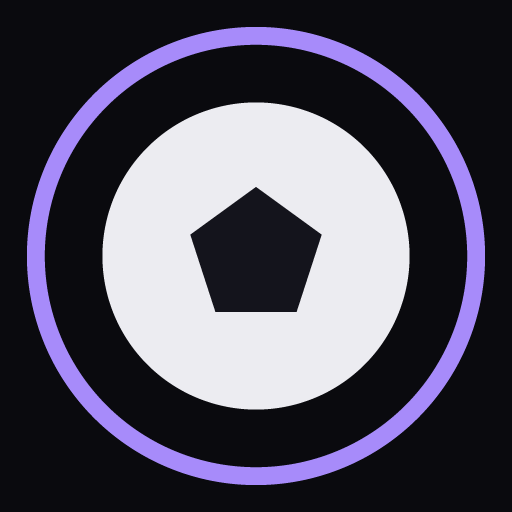
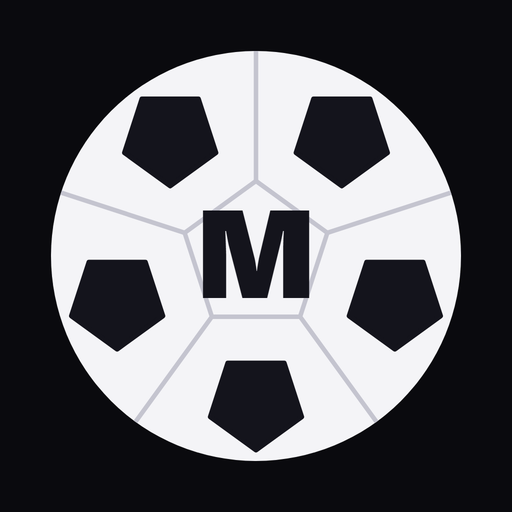
Vista anche sul referto; nuova icona: pallone con la M
- VistaCampo: pulsante e interruttori condivisi da Modulo e referto
  (stessa scelta in meta 'vistaCampo')
- Icone PWA, apple-touch e favicon rifatte: pallone con la M, senza cerchio
  viola; sorgente in public/icon-sorgente.svg
- Service worker: cache v3 per scaricare le icone nuove

Claude-Session: https://claude.ai/code/session_01DLKBbnYJc95bZgJVSMo6jV

diff --git a/mister-app/src/pages/ModuloPage.jsx b/mister-app/src/pages/ModuloPage.jsx
@@ -22,7 +22,8 @@ import IncaricoPicker from '../components/IncaricoPicker'
 import { IconBall } from '../components/icons'
 import Scelta from '../components/Scelta'
 import Modal from '../components/Modal'
-import { VOCI_VISTA, vistaCompleta } from '../lib/vistaCampo'
+import { vistaCompleta } from '../lib/vistaCampo'
+import VistaCampo from '../components/VistaCampo'
 
 const VUOTO = (formato) => Array(formato).fill(null)
 const OVERRIDE_VUOTO = () => ({ possesso: {}, nonPossesso: {} })
@@ -71,7 +72,6 @@ export default function ModuloPage() {
   const matches = useLiveQuery(() => db.matches.toArray(), [])
   const opponents = useLiveQuery(() => db.opponents.toArray(), [])
   const vistaRiga = useLiveQuery(() => db.meta.get('vistaCampo').then((v) => v ?? null), [])
-  const [finestraVista, setFinestraVista] = useState(false)
 
   useEffect(() => {
     db.meta.get('modulo').then((m) => {
@@ -442,9 +442,6 @@ export default function ModuloPage() {
 
   const impInfo = IMPOSTAZIONI.find((i) => i.value === impostazione)
   const vista = vistaCompleta(vistaRiga?.value)
-  const nascosti = Object.values(vista).filter((v) => !v).length
-  const alternaVista = (key) =>
-    db.meta.put({ key: 'vistaCampo', value: { ...vista, [key]: !vista[key] } })
   const coerenzaIcona = coerenza.livello === 'ok' ? '🟢' : coerenza.livello === 'rotto' ? '🔴' : '🟡'
 
   // Una voce della finestra Tattica: le opzioni come pulsanti, sotto la
@@ -608,31 +605,6 @@ export default function ModuloPage() {
             </Modal>
           )}
 
-          {finestraVista && (
-            <Modal titolo="Indicatori sul campo" onClose={() => setFinestraVista(false)}>
-              {VOCI_VISTA.map((v) => (
-                <div className="switch-row" key={v.key}>
-                  <div>
-                    <div className="label">{v.label}</div>
-                    <div className="muted small">{v.desc}</div>
-                  </div>
-                  <button
-                    type="button"
-                    className={`toggle ${vista[v.key] ? 'on' : ''}`}
-                    role="switch"
-                    aria-checked={vista[v.key]}
-                    aria-label={v.label}
-                    onClick={() => alternaVista(v.key)}
-                  />
-                </div>
-              ))}
-              <p className="muted small" style={{ margin: '8px 0 12px' }}>
-                Vale per il campo del Modulo. L'immagine da condividere non cambia.
-              </p>
-              <button className="btn btn-primary btn-block" onClick={() => setFinestraVista(false)}>Fatto</button>
-            </Modal>
-          )}
-
           {/* Switch di fase: lente esclusiva sul campo, mai le due mappe insieme */}
           <div className="schede" role="tablist">
             {[
@@ -654,14 +626,7 @@ export default function ModuloPage() {
           </div>
 
           <div className="pitch-wrap" style={{ position: 'relative' }}>
-            <button
-              type="button"
-              className="btn btn-sm pitch-vista"
-              aria-label="Indicatori sul campo"
-              onClick={() => setFinestraVista(true)}
-            >
-              👁 Vista{nascosti > 0 ? ` · ${nascosti} off` : ''}
-            </button>
+            <VistaCampo vista={vista} />
             <PitchView
               mostra={vista}
               modulo={modulo}

diff --git a/mister-app/src/pages/PartitaRefertoPage.jsx b/mister-app/src/pages/PartitaRefertoPage.jsx
@@ -16,6 +16,8 @@ import PitchView from '../components/PitchView'
 import IncaricoPicker from '../components/IncaricoPicker'
 import Scelta from '../components/Scelta'
 import Modal from '../components/Modal'
+import VistaCampo from '../components/VistaCampo'
+import { vistaCompleta } from '../lib/vistaCampo'
 
 const VUOTO = (n) => Array(n).fill(null)
 
@@ -61,6 +63,7 @@ export default function PartitaRefertoPage() {
   const team = useLiveQuery(() => db.meta.get('team').then((t) => t ?? null), [])
   const salvati = useLiveQuery(() => db.meta.get('moduliSalvati').then((s) => s ?? null), [])
   const moduloCorrente = useLiveQuery(() => db.meta.get('modulo').then((m) => m ?? null), [])
+  const vistaRiga = useLiveQuery(() => db.meta.get('vistaCampo').then((v) => v ?? null), [])
 
   const formato = FORMATI.includes(team?.formato) ? team.formato : 7
 
@@ -86,7 +89,7 @@ export default function PartitaRefertoPage() {
   }, [partita, team, loaded])
 
   if (!players || !opponents || partita === undefined || team === undefined ||
-      salvati === undefined || moduloCorrente === undefined || !loaded) return null
+      salvati === undefined || moduloCorrente === undefined || vistaRiga === undefined || !loaded) return null
 
   if (!partita) {
     return (
@@ -309,6 +312,7 @@ export default function PartitaRefertoPage() {
   const disallineato = disallineamentoRisultato({ ...partita, eventi })
   const daEventi = golDaEventi(eventi)
 
+  const vista = vistaCompleta(vistaRiga?.value)
   const esitoUfficiale = esitoPartita(partita)
   const golEventi = daEventi.fatti + daEventi.subiti
 
@@ -394,16 +398,20 @@ export default function PartitaRefertoPage() {
         </button>
       </div>
 
-      <PitchView
-        modulo={modulo}
-        ruoli={ruoli}
-        assignments={slots}
-        players={players}
-        intese={[]}
-        incarichi={incarichi}
-        selected={sel}
-        onSlotTap={modoLive ? apriOsservazione : (i) => setSel(sel === i ? null : i)}
-      />
+      <div className="pitch-wrap" style={{ position: 'relative' }}>
+        <VistaCampo vista={vista} />
+        <PitchView
+          modulo={modulo}
+          ruoli={ruoli}
+          assignments={slots}
+          players={players}
+          intese={[]}
+          incarichi={incarichi}
+          mostra={vista}
+          selected={sel}
+          onSlotTap={modoLive ? apriOsservazione : (i) => setSel(sel === i ? null : i)}
+        />
+      </div>
 
       {modoLive ? (
         <p className="muted small">

diff --git a/mister-app/src/components/VistaCampo.jsx b/mister-app/src/components/VistaCampo.jsx
@@ -1,0 +1,51 @@
+import { useState } from 'react'
+import { db } from '../db/db'
+import { VOCI_VISTA } from '../lib/vistaCampo'
+import Modal from './Modal'
+
+// Pulsante "👁 Vista" sopra il campo e la sua finestra di interruttori.
+// Una sola scelta per Modulo e referto: è salvata in meta 'vistaCampo'.
+// `vista` è già completa (lib/vistaCampo.vistaCompleta): la legge il
+// chiamante, che la passa anche a PitchView.
+export default function VistaCampo({ vista }) {
+  const [aperta, setAperta] = useState(false)
+  const nascosti = Object.values(vista).filter((v) => !v).length
+  const alterna = (key) => db.meta.put({ key: 'vistaCampo', value: { ...vista, [key]: !vista[key] } })
+
+  return (
+    <>
+      <button
+        type="button"
+        className="btn btn-sm pitch-vista"
+        aria-label="Indicatori sul campo"
+        onClick={() => setAperta(true)}
+      >
+        👁 Vista{nascosti > 0 ? ` · ${nascosti} off` : ''}
+      </button>
+      {aperta && (
+        <Modal titolo="Indicatori sul campo" onClose={() => setAperta(false)}>
+          {VOCI_VISTA.map((v) => (
+            <div className="switch-row" key={v.key}>
+              <div>
+                <div className="label">{v.label}</div>
+                <div className="muted small">{v.desc}</div>
+              </div>
+              <button
+                type="button"
+                className={`toggle ${vista[v.key] ? 'on' : ''}`}
+                role="switch"
+                aria-checked={vista[v.key]}
+                aria-label={v.label}
+                onClick={() => alterna(v.key)}
+              />
+            </div>
+          ))}
+          <p className="muted small" style={{ margin: '8px 0 12px' }}>
+            Vale per il campo del Modulo e del referto. L'immagine da condividere non cambia.
+          </p>
+          <button className="btn btn-primary btn-block" onClick={() => setAperta(false)}>Fatto</button>
+        </Modal>
+      )}
+    </>
+  )
+}

diff --git a/mister-app/src/pages/pagine.test.jsx b/mister-app/src/pages/pagine.test.jsx
@@ -750,3 +750,25 @@ describe('modulo: indicatori sul campo', () => {
     expect(screen.getByRole('button', { name: 'Indicatori sul campo' }).textContent).toContain('1 off')
   })
 })
+
+describe('referto: stessa vista del modulo', () => {
+  beforeAll(async () => {
+    if (!db.isOpen()) await db.open()
+    await Promise.all(db.tables.map((t) => t.clear()))
+    await db.meta.put({ key: 'team', nome: 'Test FC', formato: 7, setupDone: true })
+    await db.meta.put({ key: 'vistaCampo', value: { ruoli: false } })
+    await db.matches.add({ id: 1, data: '2026-09-27', presenze: {} })
+  })
+
+  afterEach(cleanup)
+
+  it('il pulsante Vista c\'è anche sul referto e legge la stessa scelta', async () => {
+    render(
+      <MemoryRouter initialEntries={['/partite/1/referto']}>
+        <Routes><Route path="/partite/:id/referto" element={<PartitaRefertoPage />} /></Routes>
+      </MemoryRouter>
+    )
+    const vista = await screen.findByRole('button', { name: 'Indicatori sul campo' })
+    expect(vista.textContent).toContain('1 off')
+  })
+})

diff --git a/mister-app/public/sw.js b/mister-app/public/sw.js
@@ -10,7 +10,7 @@
 //
 // - gli ASSET con hash nel nome (JS, CSS, immagini) sono immutabili: lì la
 //   cache è sempre giusta e si risponde subito, aggiornando in background.
-const CACHE = 'mister-app-v2'
+const CACHE = 'mister-app-v3' // v3: nuova icona (pallone con la M)
 
 self.addEventListener('install', () => {
   self.skipWaiting()
